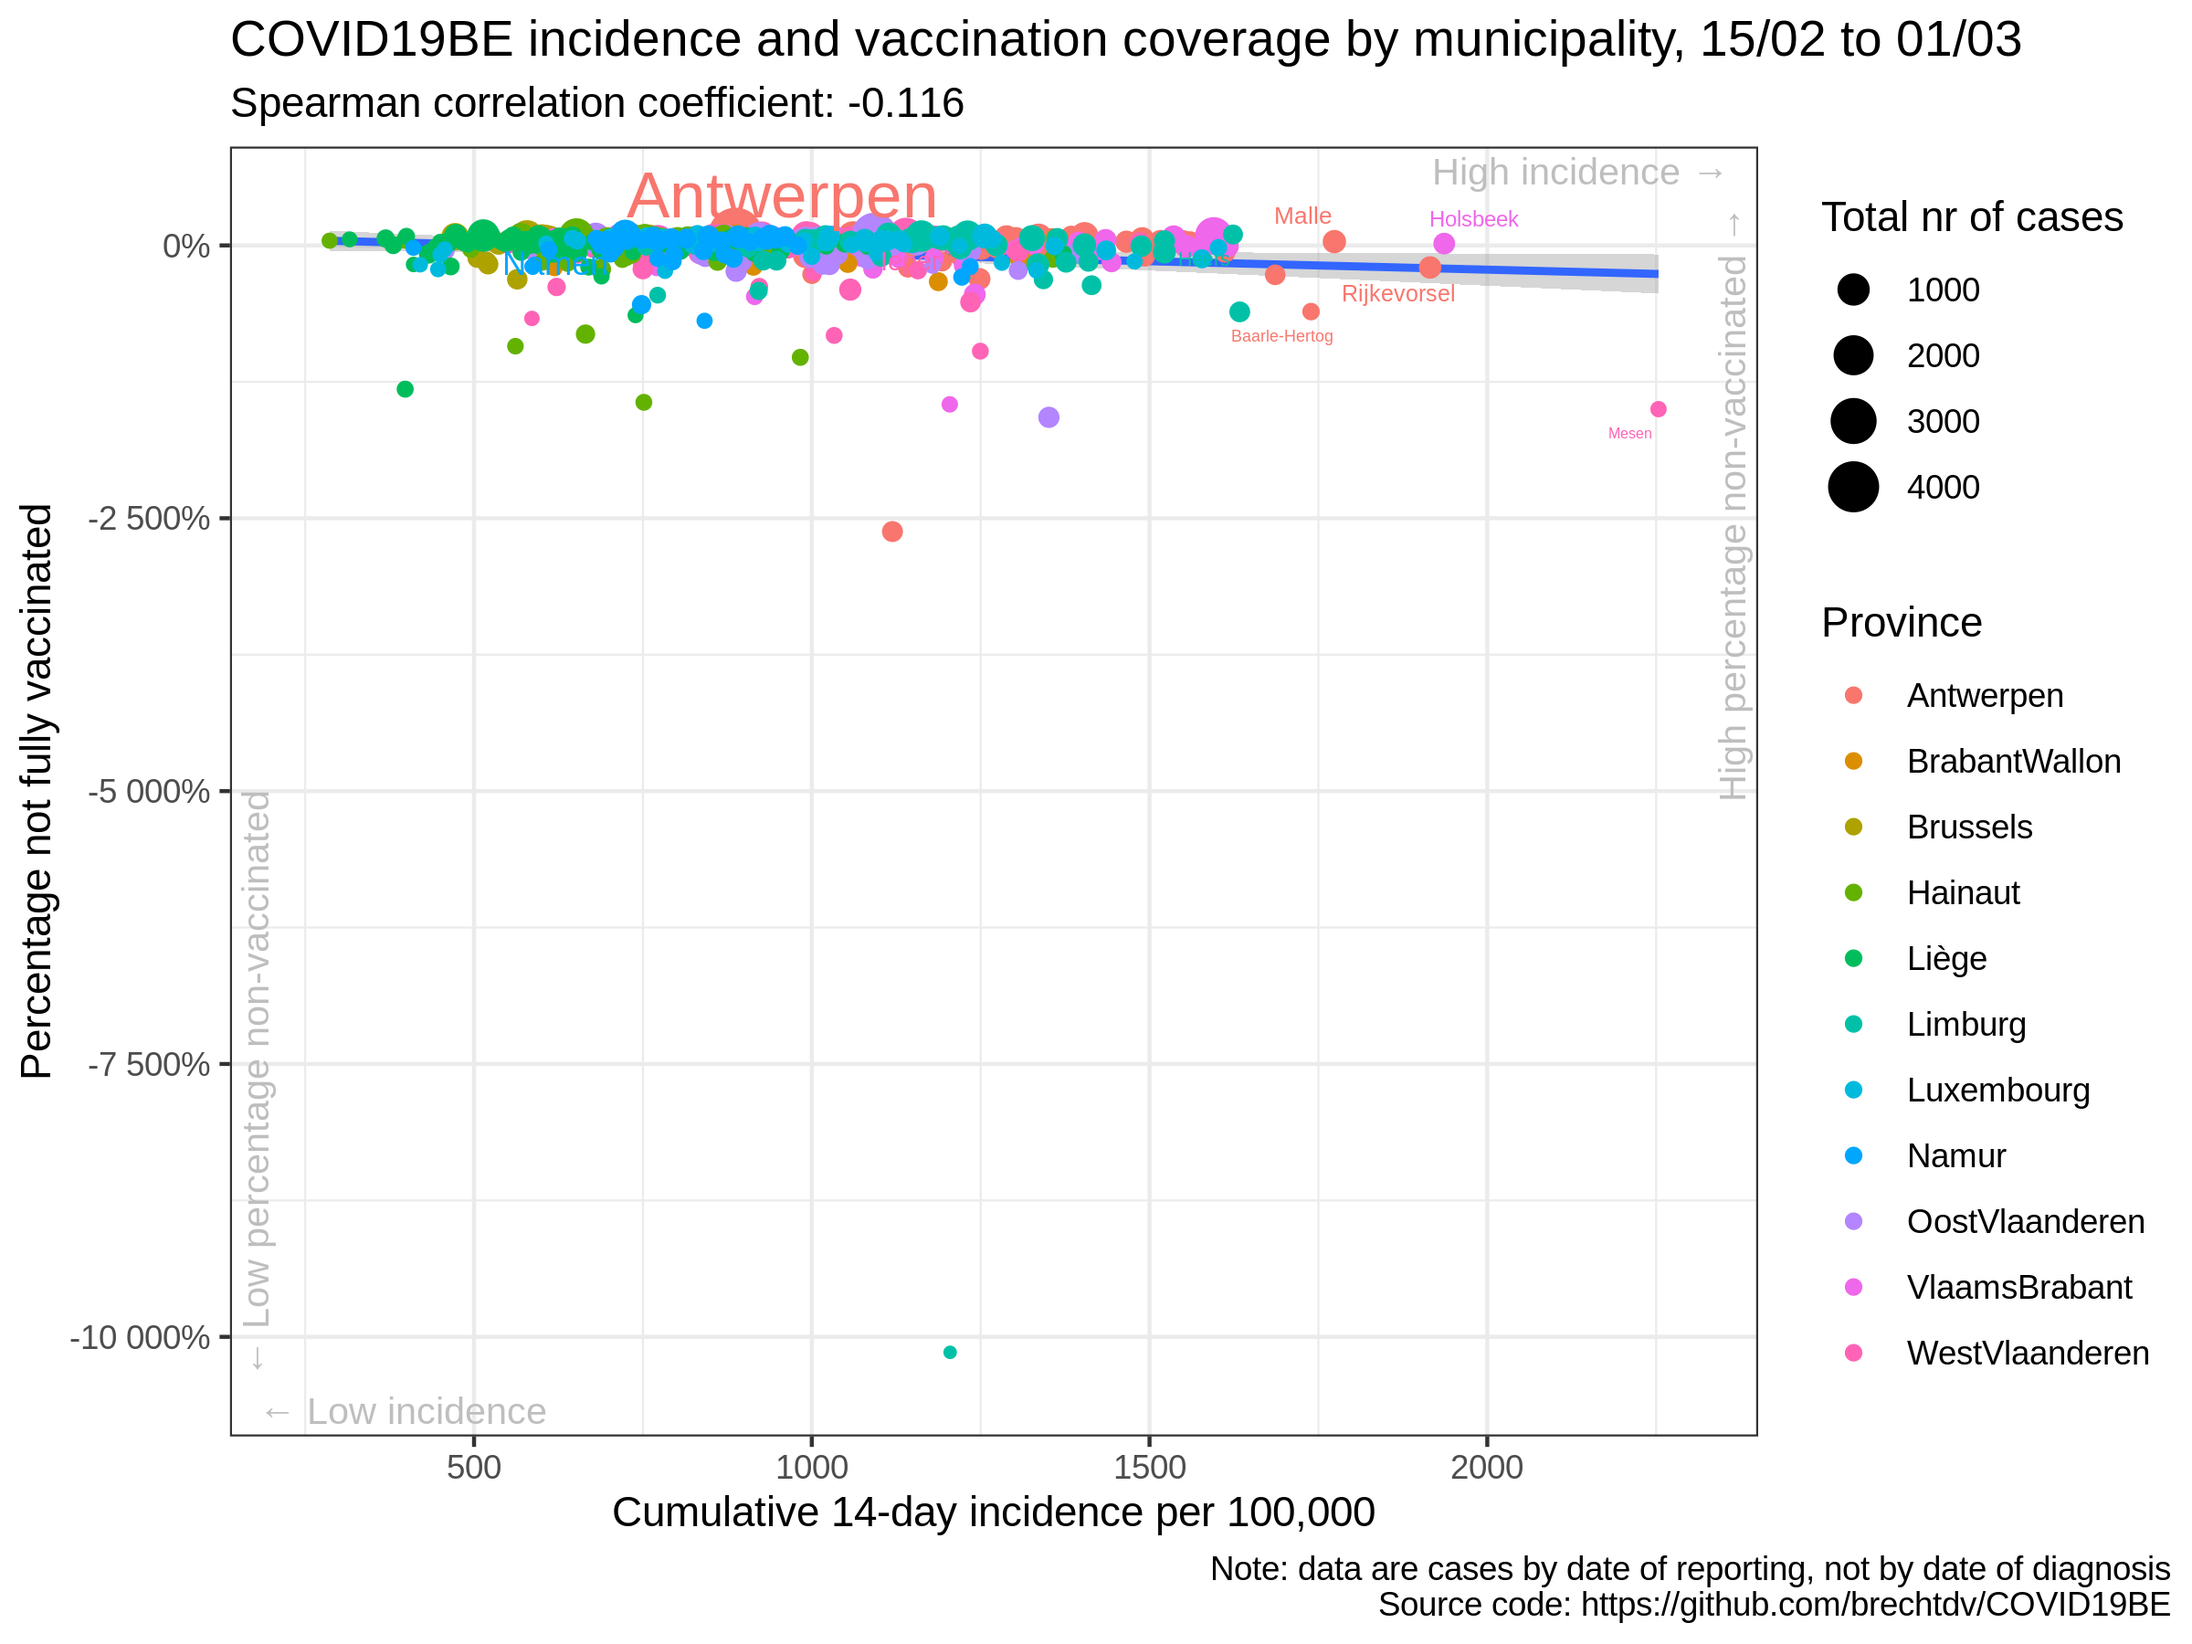
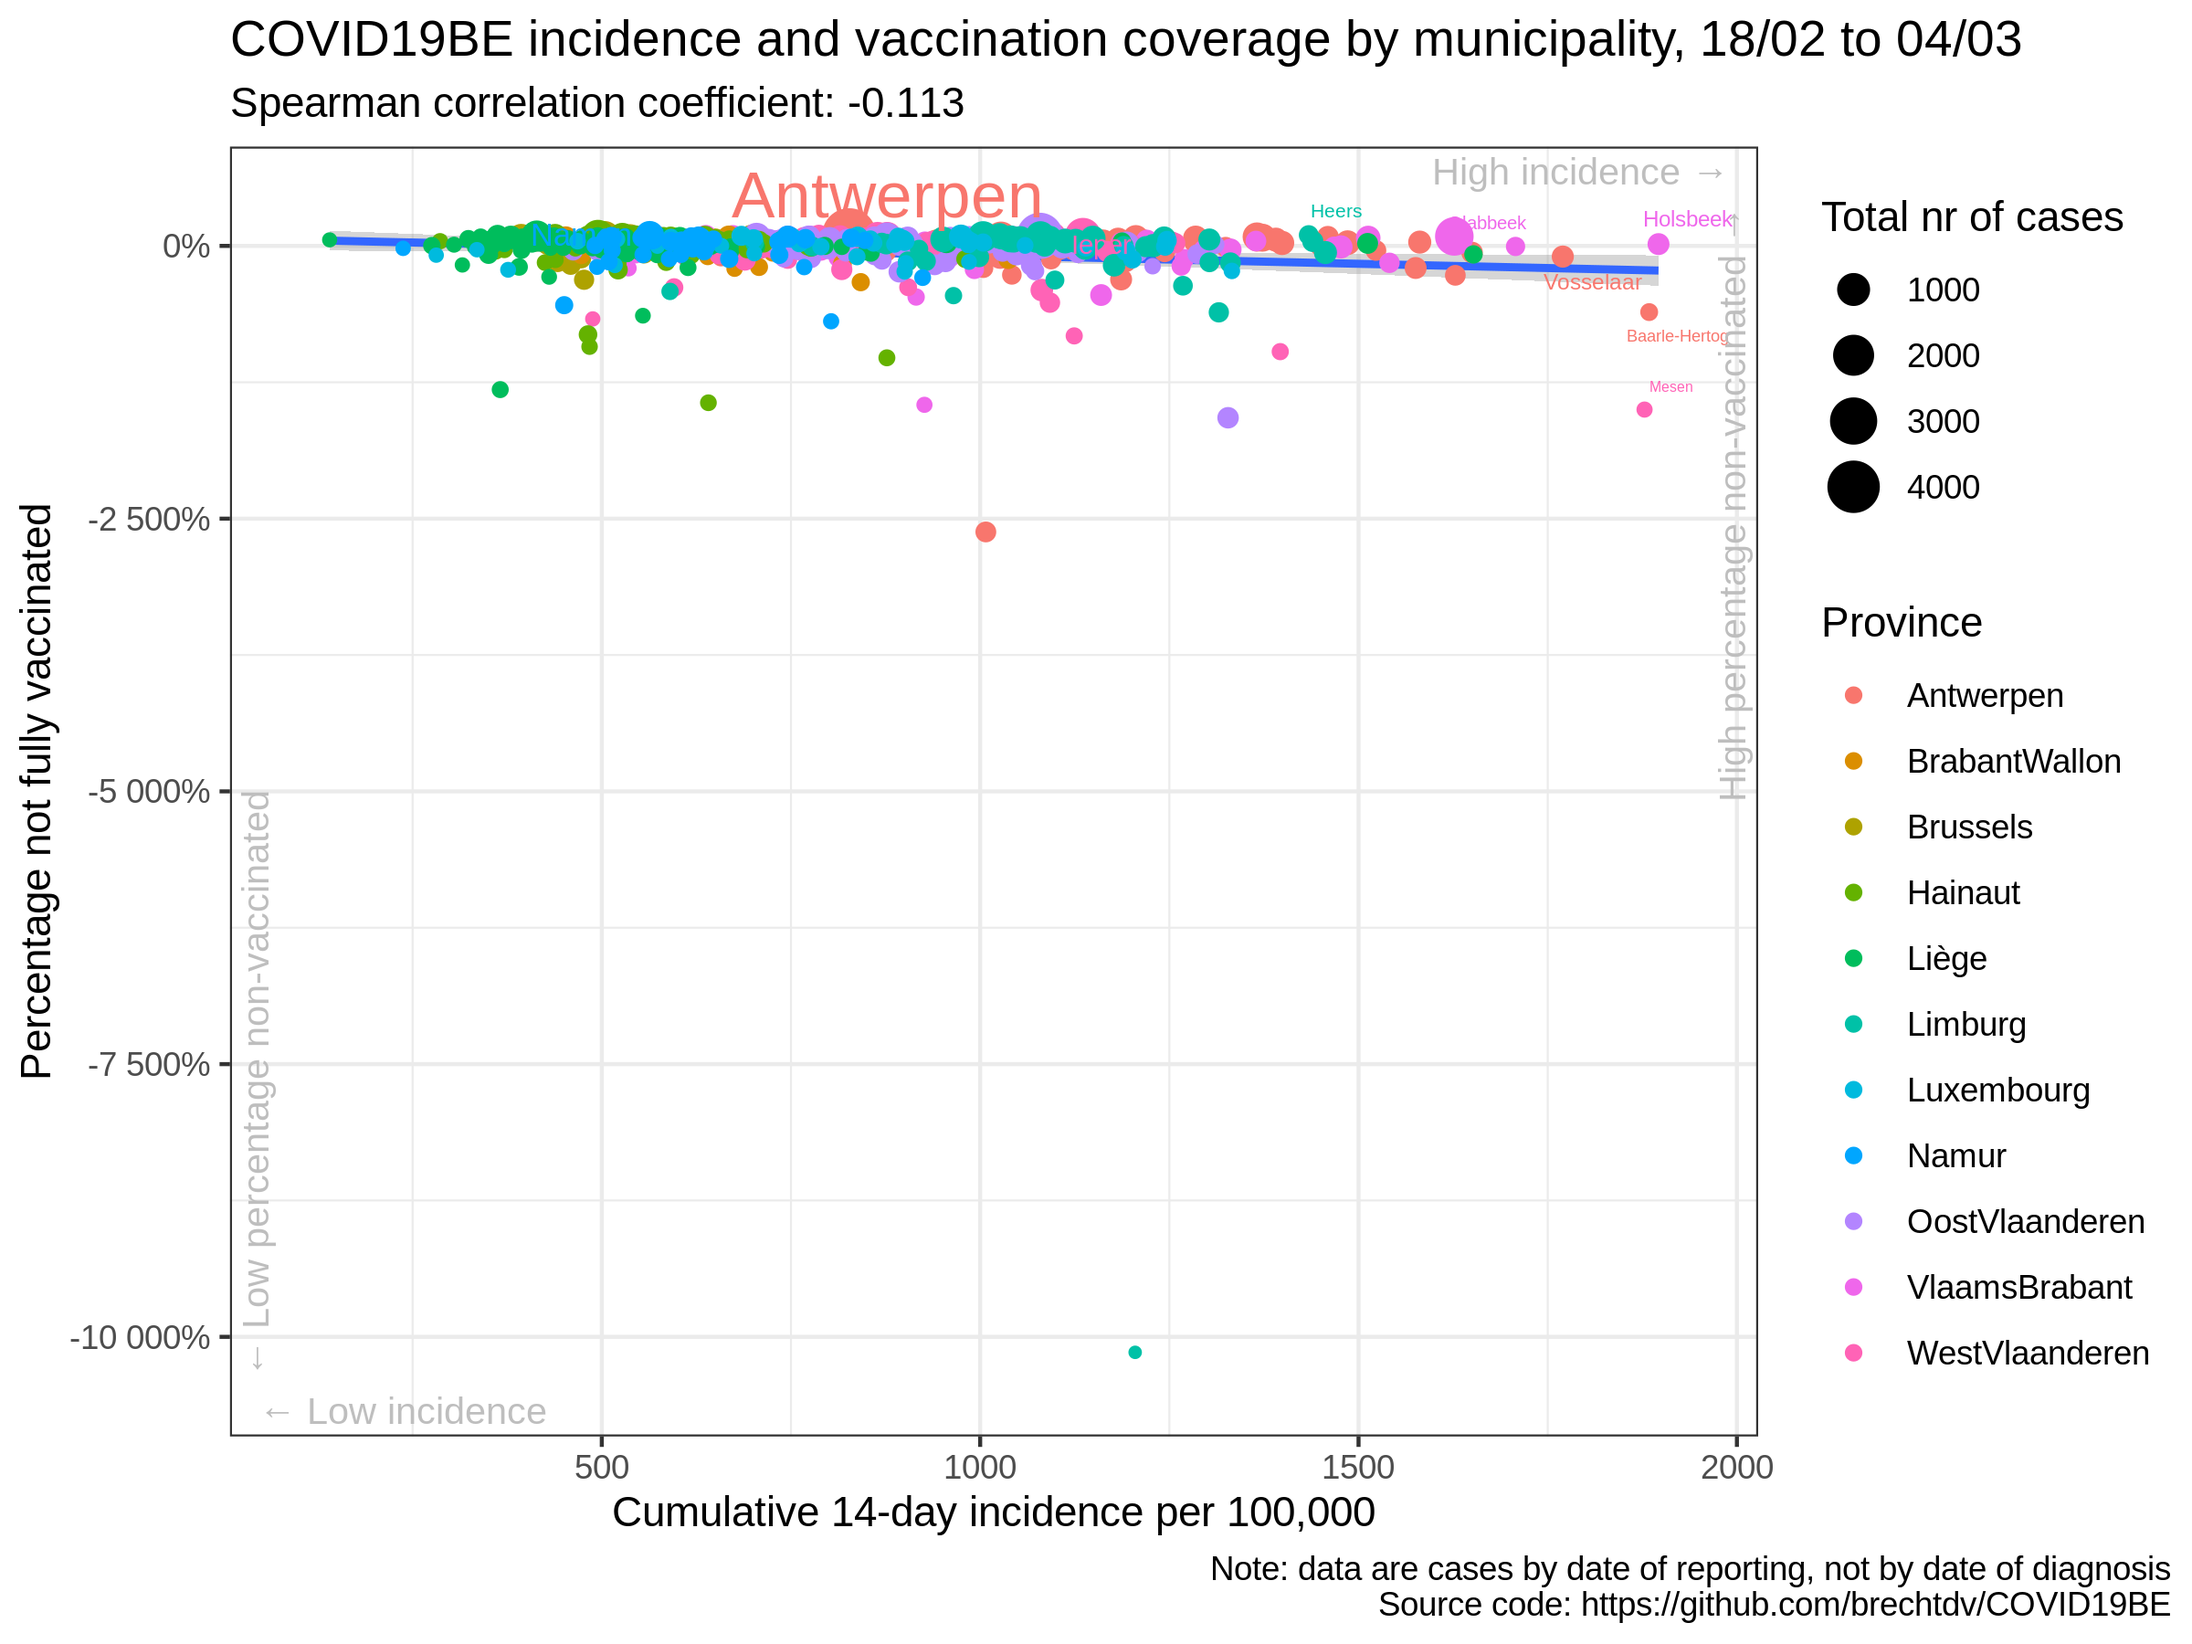
update situation

diff --git a/vaccination/README.md b/vaccination/README.md
@@ -17,35 +17,35 @@
 
 |                | estimate.rho | p.value |
 | :------------- | -----------: | ------: |
-| Antwerpen      |      \-0.050 |   0.683 |
-| BrabantWallon  |      \-0.321 |   0.103 |
-| Brussels       |        0.065 |   0.792 |
-| Hainaut        |      \-0.098 |   0.422 |
-| Liège          |      \-0.171 |   0.120 |
-| Limburg        |      \-0.016 |   0.919 |
-| Luxembourg     |      \-0.096 |   0.533 |
-| Namur          |        0.083 |   0.622 |
-| OostVlaanderen |      \-0.218 |   0.095 |
-| VlaamsBrabant  |      \-0.175 |   0.162 |
-| WestVlaanderen |        0.068 |   0.591 |
-| Belgium        |      \-0.116 |   0.005 |
+| Antwerpen      |      \-0.008 |   0.947 |
+| BrabantWallon  |      \-0.451 |   0.019 |
+| Brussels       |        0.075 |   0.759 |
+| Hainaut        |      \-0.107 |   0.382 |
+| Liège          |      \-0.173 |   0.116 |
+| Limburg        |      \-0.042 |   0.790 |
+| Luxembourg     |      \-0.109 |   0.480 |
+| Namur          |        0.014 |   0.933 |
+| OostVlaanderen |      \-0.228 |   0.080 |
+| VlaamsBrabant  |      \-0.119 |   0.345 |
+| WestVlaanderen |        0.095 |   0.453 |
+| Belgium        |      \-0.113 |   0.006 |
 
 ### Correlation cumulative incidence vs booster rate
 
 |                | estimate.rho | p.value |
 | :------------- | -----------: | ------: |
-| Antwerpen      |      \-0.060 |   0.623 |
-| BrabantWallon  |      \-0.319 |   0.105 |
-| Brussels       |        0.086 |   0.726 |
-| Hainaut        |      \-0.108 |   0.377 |
-| Liège          |      \-0.179 |   0.103 |
-| Limburg        |      \-0.011 |   0.945 |
-| Luxembourg     |      \-0.094 |   0.544 |
-| Namur          |        0.101 |   0.551 |
-| OostVlaanderen |      \-0.220 |   0.091 |
-| VlaamsBrabant  |      \-0.211 |   0.092 |
-| WestVlaanderen |        0.068 |   0.591 |
-| Belgium        |      \-0.161 |   0.000 |
+| Antwerpen      |      \-0.013 |   0.918 |
+| BrabantWallon  |      \-0.441 |   0.022 |
+| Brussels       |        0.102 |   0.678 |
+| Hainaut        |      \-0.113 |   0.354 |
+| Liège          |      \-0.177 |   0.107 |
+| Limburg        |      \-0.034 |   0.829 |
+| Luxembourg     |      \-0.113 |   0.462 |
+| Namur          |        0.022 |   0.896 |
+| OostVlaanderen |      \-0.227 |   0.081 |
+| VlaamsBrabant  |      \-0.151 |   0.230 |
+| WestVlaanderen |        0.096 |   0.451 |
+| Belgium        |      \-0.164 |   0.000 |
 
 ### Data source
 
